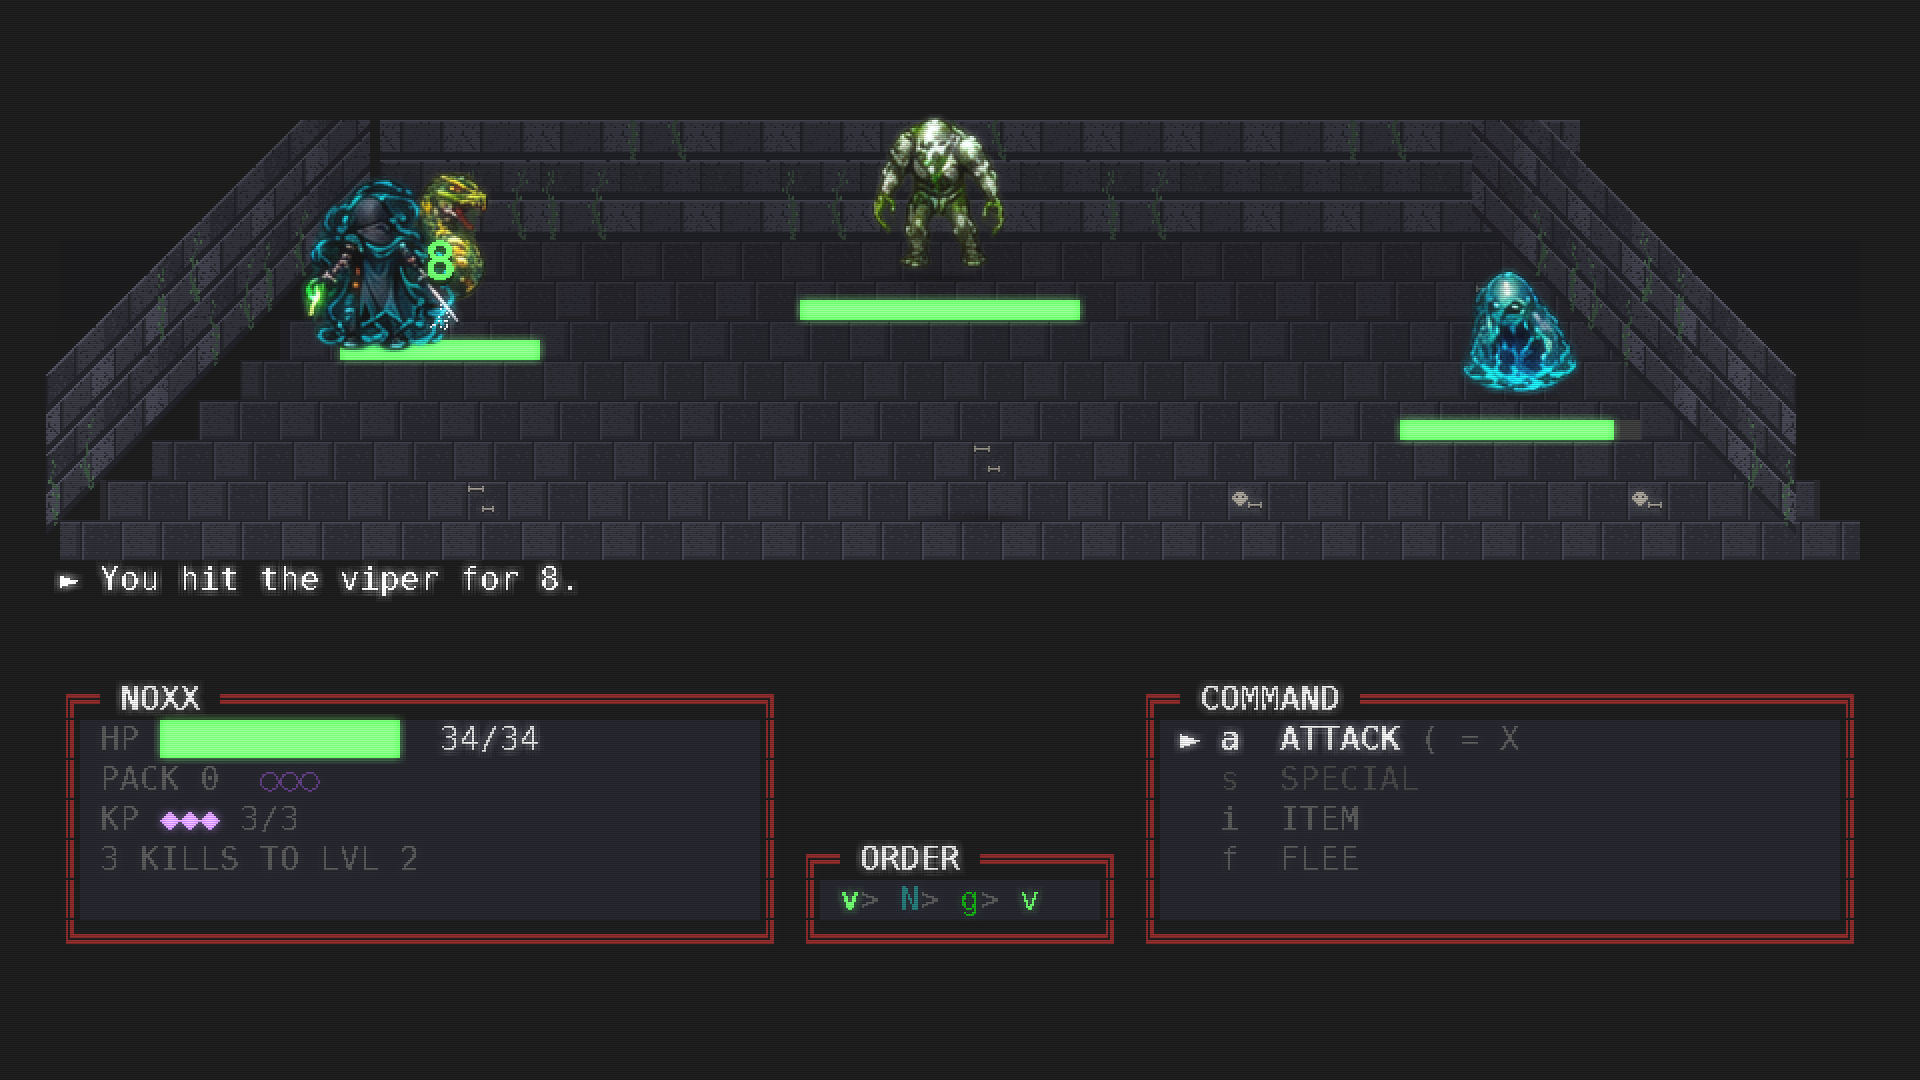
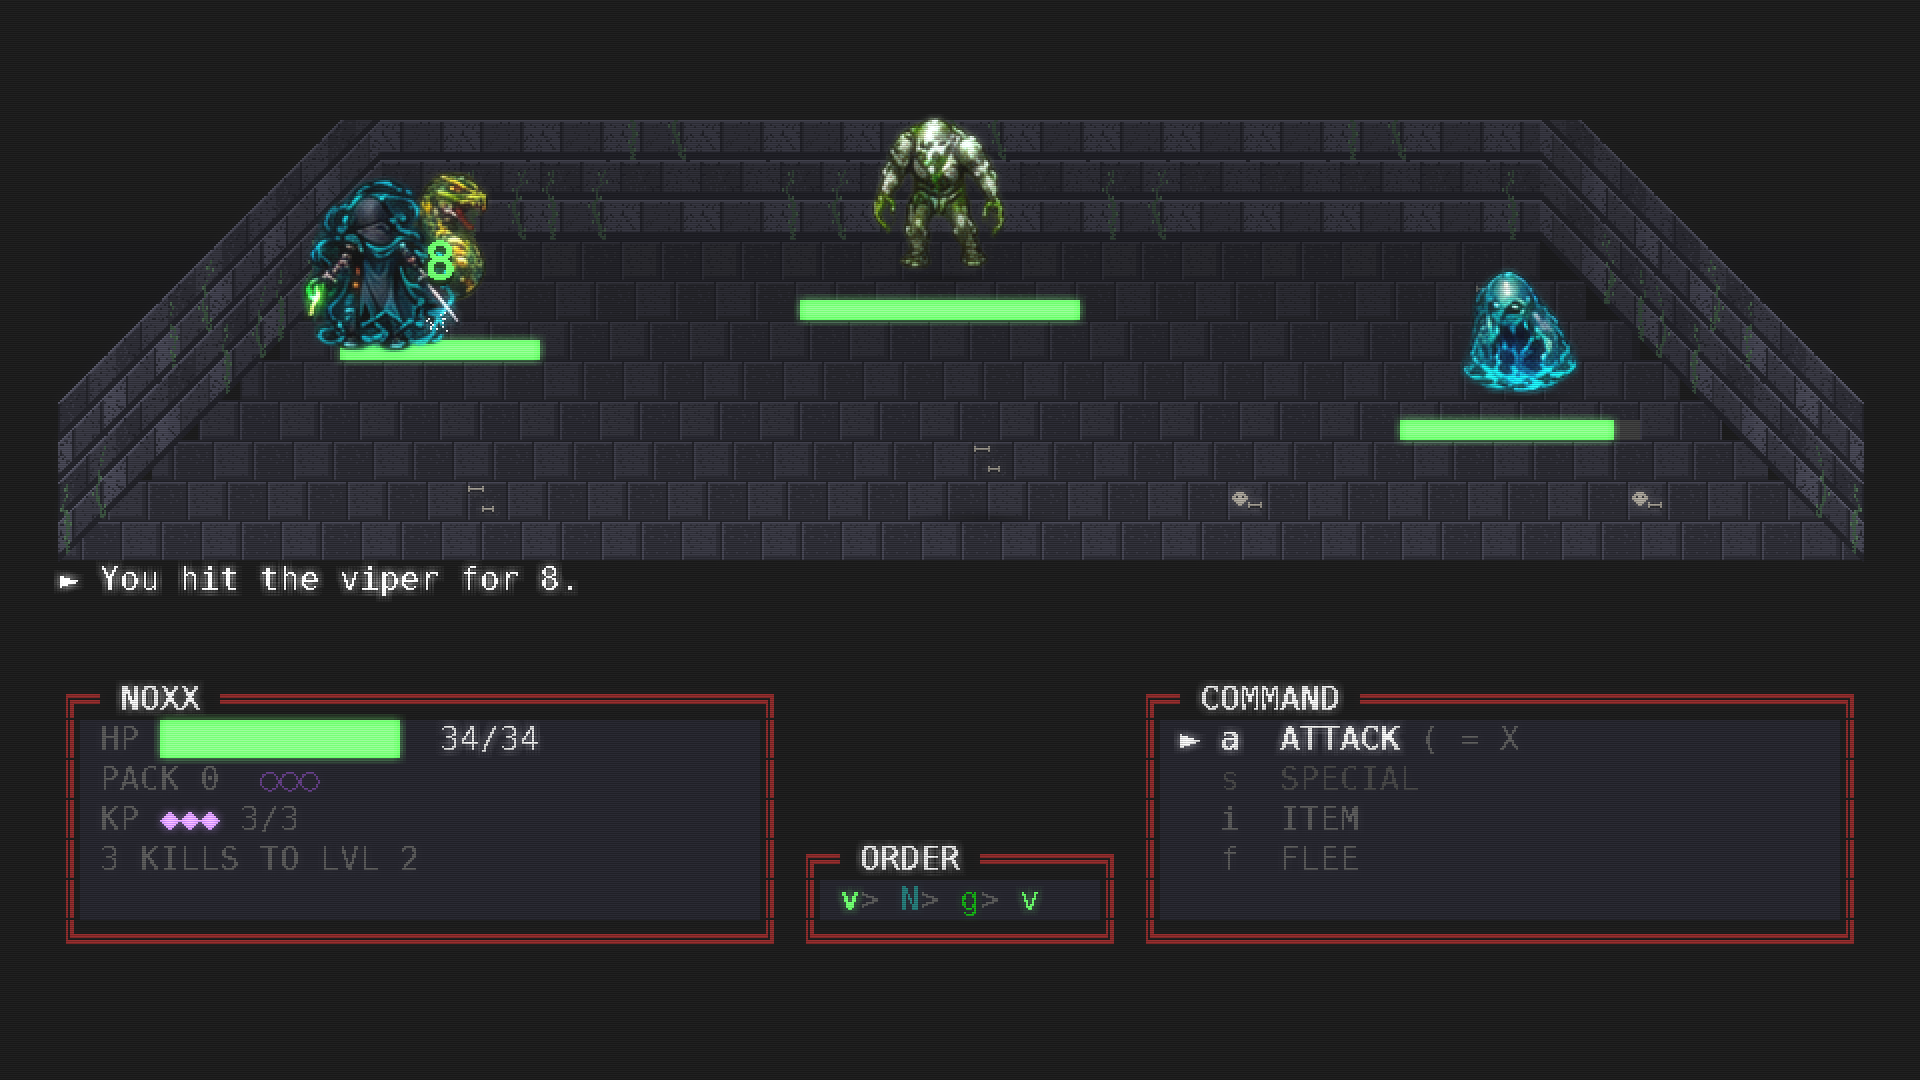
full screen, and the viewport nobody moved
Reported: F11 puts the game in the bottom left corner at its own size, with the
rest of the screen black. That corner is the clue and the whole answer -- the GL
viewport's origin *is* the bottom left, and nothing had moved the viewport, so
the shader drew into the old rectangle and the driver filled the rest with black.

There were two more things wrong underneath it, and one was mine from an hour
earlier:

* `toggle_fullscreen` does not resize the display *surface* pygame reports, only
  the window. So even after asking, the app still saw 960x540 and fitted the
  picture to a window that was no longer that size. `get_window_size` is the
  question that has the real answer.
* The first version of this fix called `set_mode` again on every toggle, which
  makes a *new* GL context: the shader program, with every texture in it, belongs
  to the old one, and the object that got dropped took the process with it -- a
  segfault on F11, plus `gl_set_attribute` being refused after the display exists
  (which would have quietly dropped the CRT on the way). SDL's own toggle keeps
  the window and its context; what it does not do is move the viewport or re-fit
  the picture, and that is precisely what is asked for now: `_fit` from the
  window's own size, and the viewport set every frame in `draw` so it cannot go
  stale again.

Checked on the real display rather than reasoned about, because a screen is the
one thing a test has not got: windowed 960x540, then full screen -- window
[…]

diff --git a/src/neverdeads_revenge/sdl_front/app.py b/src/neverdeads_revenge/sdl_front/app.py
@@ -150,6 +150,12 @@ class SdlApp:
         self._window = None
         self._surface = None
         self._last_frame: float | None = None
+        #: Whether the window is the whole screen, and where the picture sits in
+        #: whatever size the window has now. Both move on F11 and on a resize.
+        self._fullscreen = False
+        self._shown = self._buffer_size()
+        self._shown_at = (0, 0)
+        self._title = "Neverdead's Revenge"
         #: Whether the window loop should keep going. Only ``quit`` clears it --
         #: there is no window object to ask on this front end.
         self._running = True
@@ -515,6 +521,9 @@ class SdlApp:
                 text,
             )
         elif event.type == pygame.VIDEORESIZE:
+            # The window manager's answer, not ours: the picture is fitted to
+            # whatever it says, and the glass hears about it.
+            self._fit()
             self.redraw()
 
     def tick(self, dt: float) -> None:
@@ -686,6 +695,113 @@ class SdlApp:
                 ),
             )
 
+    def _buffer_size(self) -> tuple[int, int]:
+        """The picture's own size, in pixels: a cell is ten by twenty, always."""
+        return (self.cols * self.font.cell_w, self.rows * self.font.cell_h)
+
+    def _open_window(self) -> None:
+        """Make the window, once, before the loop starts.
+
+        The GL attributes have to be set *before* the display exists -- pygame
+        refuses them afterwards -- so the whole of the window's creation is here
+        and a full screen toggle never comes back through it. Any of this
+        failing -- no driver, no context, a profile that will not take the shader
+        -- is a plain window and no CRT: the game goes on either way.
+        """
+        import pygame
+
+        base = self._buffer_size()
+        size = (base[0] * self.scale, base[1] * self.scale)
+        if self.crt.scanlines or self.crt.bloom or self.crt.geometry:
+            try:
+                import moderngl
+
+                pygame.display.gl_set_attribute(
+                    pygame.GL_CONTEXT_MAJOR_VERSION, 2
+                )
+                pygame.display.gl_set_attribute(
+                    pygame.GL_CONTEXT_MINOR_VERSION, 1
+                )
+                self._window = pygame.display.set_mode(
+                    size, pygame.OPENGL | pygame.DOUBLEBUF
+                )
+                from .glass import SdlGlass
+
+                self.glass = SdlGlass(
+                    self.crt,
+                    base,
+                    self._window.get_size(),
+                    context=moderngl.create_context(),
+                )
+                self._fit()
+                return
+            except Exception:
+                self.glass = None
+        self._window = pygame.display.set_mode(size)
+        self._fit()
+
+    def _toggle_fullscreen(self) -> None:
+        """F11: the window's own full screen, then the fit and the viewport.
+
+        Not ``set_mode`` again, which is what this did first: that makes a *new*
+        GL context, and the shader program -- with every texture in it -- belongs
+        to the old one, so the object that was dropped took the process with it.
+        SDL's own toggle keeps the window and its context alive. What it does
+        *not* do is move the GL viewport or re-fit the picture, and that is the
+        whole of what went wrong: the game stayed in the bottom left corner --
+        the viewport's origin -- with the rest of the screen black.
+        """
+        import pygame
+
+        self._fullscreen = not self._fullscreen
+        if self.glass is not None:
+            # SDL's own toggle keeps the window *and its context*: a `set_mode`
+            # here would make a new context and leave the shader program behind
+            # in the old one. What SDL does not do is move the GL viewport or
+            # tell the shader that the window changed -- which is the whole of
+            # what went wrong.
+            pygame.display.toggle_fullscreen()
+        else:
+            # No glass: the surface itself is what gets blitted, so full screen
+            # means a full-screen surface, and there is no context to lose.
+            base = self._buffer_size()
+            if self._fullscreen:
+                size = pygame.display.get_desktop_sizes()[0]
+                self._window = pygame.display.set_mode(size, pygame.FULLSCREEN)
+            else:
+                self._window = pygame.display.set_mode(
+                    (base[0] * self.scale, base[1] * self.scale)
+                )
+        self._fit()
+
+    def _fit(self) -> None:
+        """How big the picture is on this window, and where it sits.
+
+        Reckoned from the window's *current* size and not from the one that was
+        asked for: full screen is a different window, and the whole-number scale
+        that fits it is a different number. Without this the picture stays in the
+        corner it was first drawn in -- the GL viewport's own origin, which is the
+        bottom left.
+        """
+        import pygame
+
+        # The *window's* size and not the surface's, which are two different
+        # numbers: pygame keeps the display surface at the size it was made at,
+        # so a full-screen window still reports 960x540 and the picture stays
+        # that size in the corner of a black screen. The window knows.
+        if pygame.display.get_init() and pygame.display.get_surface() is not None:
+            width, height = pygame.display.get_window_size()
+        elif self._window is not None:
+            width, height = self._window.get_size()
+        else:
+            return
+        buffer_w, buffer_h = self._buffer_size()
+        fit = max(1, min(width // buffer_w, height // buffer_h))
+        self._shown = (fit * buffer_w, fit * buffer_h)
+        self._shown_at = ((width - self._shown[0]) // 2, (height - self._shown[1]) // 2)
+        if self.glass is not None:
+            self.glass.fit((width, height), fit, self._shown_at)
+
     def _present(self) -> None:
         """Put the picture on the screen, whole-number scaled, or nowhere.
 
@@ -699,18 +815,24 @@ class SdlApp:
             return
         surface = self._window
         offset = self.effects.offset()
+        fit = max(1, self._shown[0] // max(1, self._buffer_size()[0]))
         if self.glass is not None:
             # The glass has the whole picture and the whole window: it is the
             # thing that scales, so the shake goes in as part of its offset.
-            self.glass.draw(self._surface, (offset[0] * self.scale, offset[1] * self.scale))
+            self.glass.draw(
+                self._surface, (offset[0] * fit, offset[1] * fit)
+            )
             pygame.display.flip()
             return
         surface.fill((0, 0, 0))
         scaled = pygame.transform.scale(
             self._surface,
-            (self._surface.get_width() * self.scale, self._surface.get_height() * self.scale),
+            (self._surface.get_width() * fit, self._surface.get_height() * fit),
         )
-        surface.blit(scaled, (offset[0] * self.scale, offset[1] * self.scale))
+        surface.blit(
+            scaled,
+            (self._shown_at[0] + offset[0] * fit, self._shown_at[1] + offset[1] * fit),
+        )
         pygame.display.flip()
 
     # -- the keys -----------------------------------------------------------
@@ -736,7 +858,8 @@ class SdlApp:
         import pygame
 
         if name == "f11":
-            pygame.display.toggle_fullscreen()
+            self._toggle_fullscreen()
+            self.redraw()
             return True
         turned = {
             "f2": "scanlines",
@@ -769,41 +892,9 @@ class SdlApp:
         """
         import pygame
 
-        size = (
-            self.cols * self.font.cell_w * self.scale,
-            self.rows * self.font.cell_h * self.scale,
-        )
-        if self.crt.scanlines or self.crt.bloom or self.crt.geometry:
-            # A GL window, and the glass in it. Any of this failing -- no driver,
-            # no context, a profile that will not take the shader -- is a plain
-            # window and no CRT: the game goes on either way.
-            try:
-                import moderngl
-
-                pygame.display.gl_set_attribute(
-                    pygame.GL_CONTEXT_MAJOR_VERSION, 2
-                )
-                pygame.display.gl_set_attribute(
-                    pygame.GL_CONTEXT_MINOR_VERSION, 1
-                )
-                self._window = pygame.display.set_mode(
-                    size, pygame.OPENGL | pygame.DOUBLEBUF
-                )
-                self.redraw()
-                from .glass import SdlGlass
-
-                self.glass = SdlGlass(
-                    self.crt,
-                    (self._surface.get_width(), self._surface.get_height()),
-                    size,
-                    context=moderngl.create_context(),
-                )
-            except Exception:
-                self.glass = None
-                self._window = pygame.display.set_mode(size)
-        else:
-            self._window = pygame.display.set_mode(size)
+        self._title = title
         pygame.display.set_caption(title)
+        self._open_window()
         self.redraw()
         clock = pygame.time.Clock()
         self._running = True

diff --git a/tests/test_sdl_front.py b/tests/test_sdl_front.py
@@ -1669,3 +1669,116 @@ def test_the_frame_counter_is_there_when_it_is_asked_for():
     )
     ink = _changed(quiet._surface, counted._surface, corner)
     assert ink > 30, f"the counter was not drawn: {ink} pixels"
+
+
+def test_the_picture_is_fitted_to_the_window_it_is_actually_in():
+    """Full screen is a different window, and the picture has to follow it.
+
+    Which it did not: the present step scaled by the number the command line
+    asked for and never looked at the window again, so a full-screen picture
+    stayed its own size in a corner with the rest of the screen black. The scale
+    and the centring are reckoned from the window's *current* size now.
+    """
+    import pygame
+
+    from neverdeads_revenge.sdl_front.app import SdlApp
+
+    app = SdlApp(seed=3, scale=1, no_sound=True)
+    app.redraw()
+    base = app._buffer_size()
+    assert app._shown == base, "the picture was not even its own size"
+
+    pygame.display.set_mode((base[0] * 2, base[1] * 2))
+    app._fit()
+    assert app._shown == (base[0] * 2, base[1] * 2), "a doubled window doubled nothing"
+    assert app._shown_at == (0, 0), "a picture that fits exactly is not centred"
+
+    pygame.display.set_mode((base[0] + 40, base[1] + 60))
+    app._fit()
+    assert app._shown == base, "a window that fits one whole scale should use one"
+    assert app._shown_at == (20, 30), "the remainder was not shared out evenly"
+
+
+def test_the_glass_hears_about_a_window_that_changed():
+    """The same for the shader: its uniform, and the viewport it draws into.
+
+    The viewport is the one that showed: it is the framebuffer's, its origin is
+    the bottom left, and a glass that never moves it draws the game into that
+    corner and leaves everything else black -- which is what full screen looked
+    like.
+    """
+    try:
+        import moderngl
+    except ImportError:  # pragma: no cover - the dev extra is not always there
+        return
+    from neverdeads_revenge.desktop.crt_gl import CrtSettings
+    from neverdeads_revenge.sdl_front.glass import SdlGlass
+
+    try:
+        context = moderngl.create_standalone_context(require=120)
+    except Exception:  # pragma: no cover - no driver, no glass
+        return
+    glass = SdlGlass(CrtSettings(), (960, 540), (960, 540), context=context)
+    glass.fit((1920, 1080), 2, (0, 0))
+    assert glass.display_size == (1920, 1080), "the glass kept the old window size"
+    assert (glass.scale, glass.offset) == (2, (0, 0)), "the glass kept the old fit"
+    assert tuple(glass.program["resolution"].value) == (1920.0, 1080.0)
+    assert glass.ctx.viewport == (0, 0, 1920, 1080), "the viewport was left in a corner"
+    glass.release()
+
+
+def test_full_screen_re_fits_the_picture_to_the_screen(monkeypatch):
+    """F11: the window is the whole screen now, so the picture follows it.
+
+    Asked of the numbers, because a test has no screen: the window is *told* to
+    be the size of one. What went wrong is worth keeping in mind -- the picture
+    stayed its own size in the bottom left corner, because the GL viewport's
+    origin is the bottom left and nothing had moved it -- so the facts here are
+    the scale and the centring, both of which have to come from the window and
+    neither of which may be left at the size the command line asked for.
+    """
+    import pygame
+
+    from neverdeads_revenge.sdl_front.app import SdlApp
+
+    screen = (2048, 1152)
+    app = SdlApp(seed=3, scale=1, no_sound=True)
+    app.redraw()
+    base = app._buffer_size()
+
+    # A window manager, in two lines: the window is the size of the screen once
+    # it is full, and its own size again when it comes back. (A test has no
+    # screen, and a window that never changed size would prove nothing.)
+    live = {"full": False}
+    monkeypatch.setattr(
+        pygame.display,
+        "get_window_size",
+        lambda: screen if live["full"] else base,
+    )
+
+    def toggle() -> None:
+        live["full"] = not live["full"]
+
+    monkeypatch.setattr(pygame.display, "toggle_fullscreen", toggle)
+
+    # And the other way a window can go full screen: without a glass the app asks
+    # for a full-screen *surface*, so the flag has to be watched there too.
+    real_mode = pygame.display.set_mode
+
+    def fake_mode(size=(0, 0), flags=0, **rest):
+        live["full"] = bool(flags & pygame.FULLSCREEN)
+        return real_mode(size, flags, **rest)
+
+    monkeypatch.setattr(pygame.display, "set_mode", fake_mode)
+
+    app.feed(_pressed(pygame.K_F11))
+    assert app._fullscreen, "F11 did not ask for full screen"
+    assert app._shown == (base[0] * 2, base[1] * 2), "the picture did not grow"
+    assert app._shown_at == (
+        (screen[0] - base[0] * 2) // 2,
+        (screen[1] - base[1] * 2) // 2,
+    ), "the picture was not centred on the screen"
+
+    app.feed(_pressed(pygame.K_F11))
+    assert not app._fullscreen, "F11 did not come back"
+    assert app._shown == base, "the picture did not shrink back"

diff --git a/src/neverdeads_revenge/sdl_front/glass.py b/src/neverdeads_revenge/sdl_front/glass.py
@@ -71,14 +71,37 @@ class SdlGlass:
             self.display_size[0] // max(1, self.buffer_size[0]),
             self.display_size[1] // max(1, self.buffer_size[1]),
         )
-        self.scale = max(1, scale)
-        self.offset = (
-            (self.display_size[0] - self.buffer_size[0] * self.scale) // 2,
-            (self.display_size[1] - self.buffer_size[1] * self.scale) // 2,
+        self._fit_scale = max(1, scale)
+        self._fit_offset = (
+            (self.display_size[0] - self.buffer_size[0] * self._fit_scale) // 2,
+            (self.display_size[1] - self.buffer_size[1] * self._fit_scale) // 2,
         )
         self.program["pattern"] = 0
         self.program["buffer"] = self.buffer_size
+        self.fit(self.display_size, self._fit_scale, self._fit_offset)
+
+    def fit(self, display_size, scale: int, offset) -> None:
+        """The window changed: where the picture goes, and how big it is.
+
+        Which has to be *recomputed* and not kept: full screen is a different
+        window, and the whole-number scale that fits it is a different number.
+        The viewport goes with it, because that is the thing whose origin is the
+        bottom left corner -- a glass that never moved it draws the game into the
+        corner of the screen and leaves the rest black, which is exactly what
+        full screen looked like.
+        """
+        self.display_size = (int(display_size[0]), int(display_size[1]))
+        self.scale = max(1, int(scale))
+        self.offset = (int(offset[0]), int(offset[1]))
+        self.ctx.viewport = (0, 0, *self.display_size)
         self.program["resolution"] = self.display_size
+        if self.offscreen:
+            # An offscreen glass is a test or a probe, and those never resize --
+            # but a wrong-sized framebuffer would be an empty picture, so it is
+            # rebuilt rather than trusted.
+            self._screen = self.ctx.framebuffer(
+                color_attachments=[self.ctx.texture(self.display_size, 3)]
+            )
 
     @property
     def effects(self) -> bool:
@@ -96,6 +119,10 @@ class SdlGlass:
 
         import moderngl
 
+        # Cheap, and it keeps the one thing that must not go stale correct: the
+        # viewport is the framebuffer's, and this is called from whichever
+        # context is current.
+        self.ctx.viewport = (0, 0, *self.display_size)
         self.texture.write(pygame.image.tostring(surface, "RGBA", True))
         self.texture.use(0)
         self.program["scale"] = float(self.scale)
